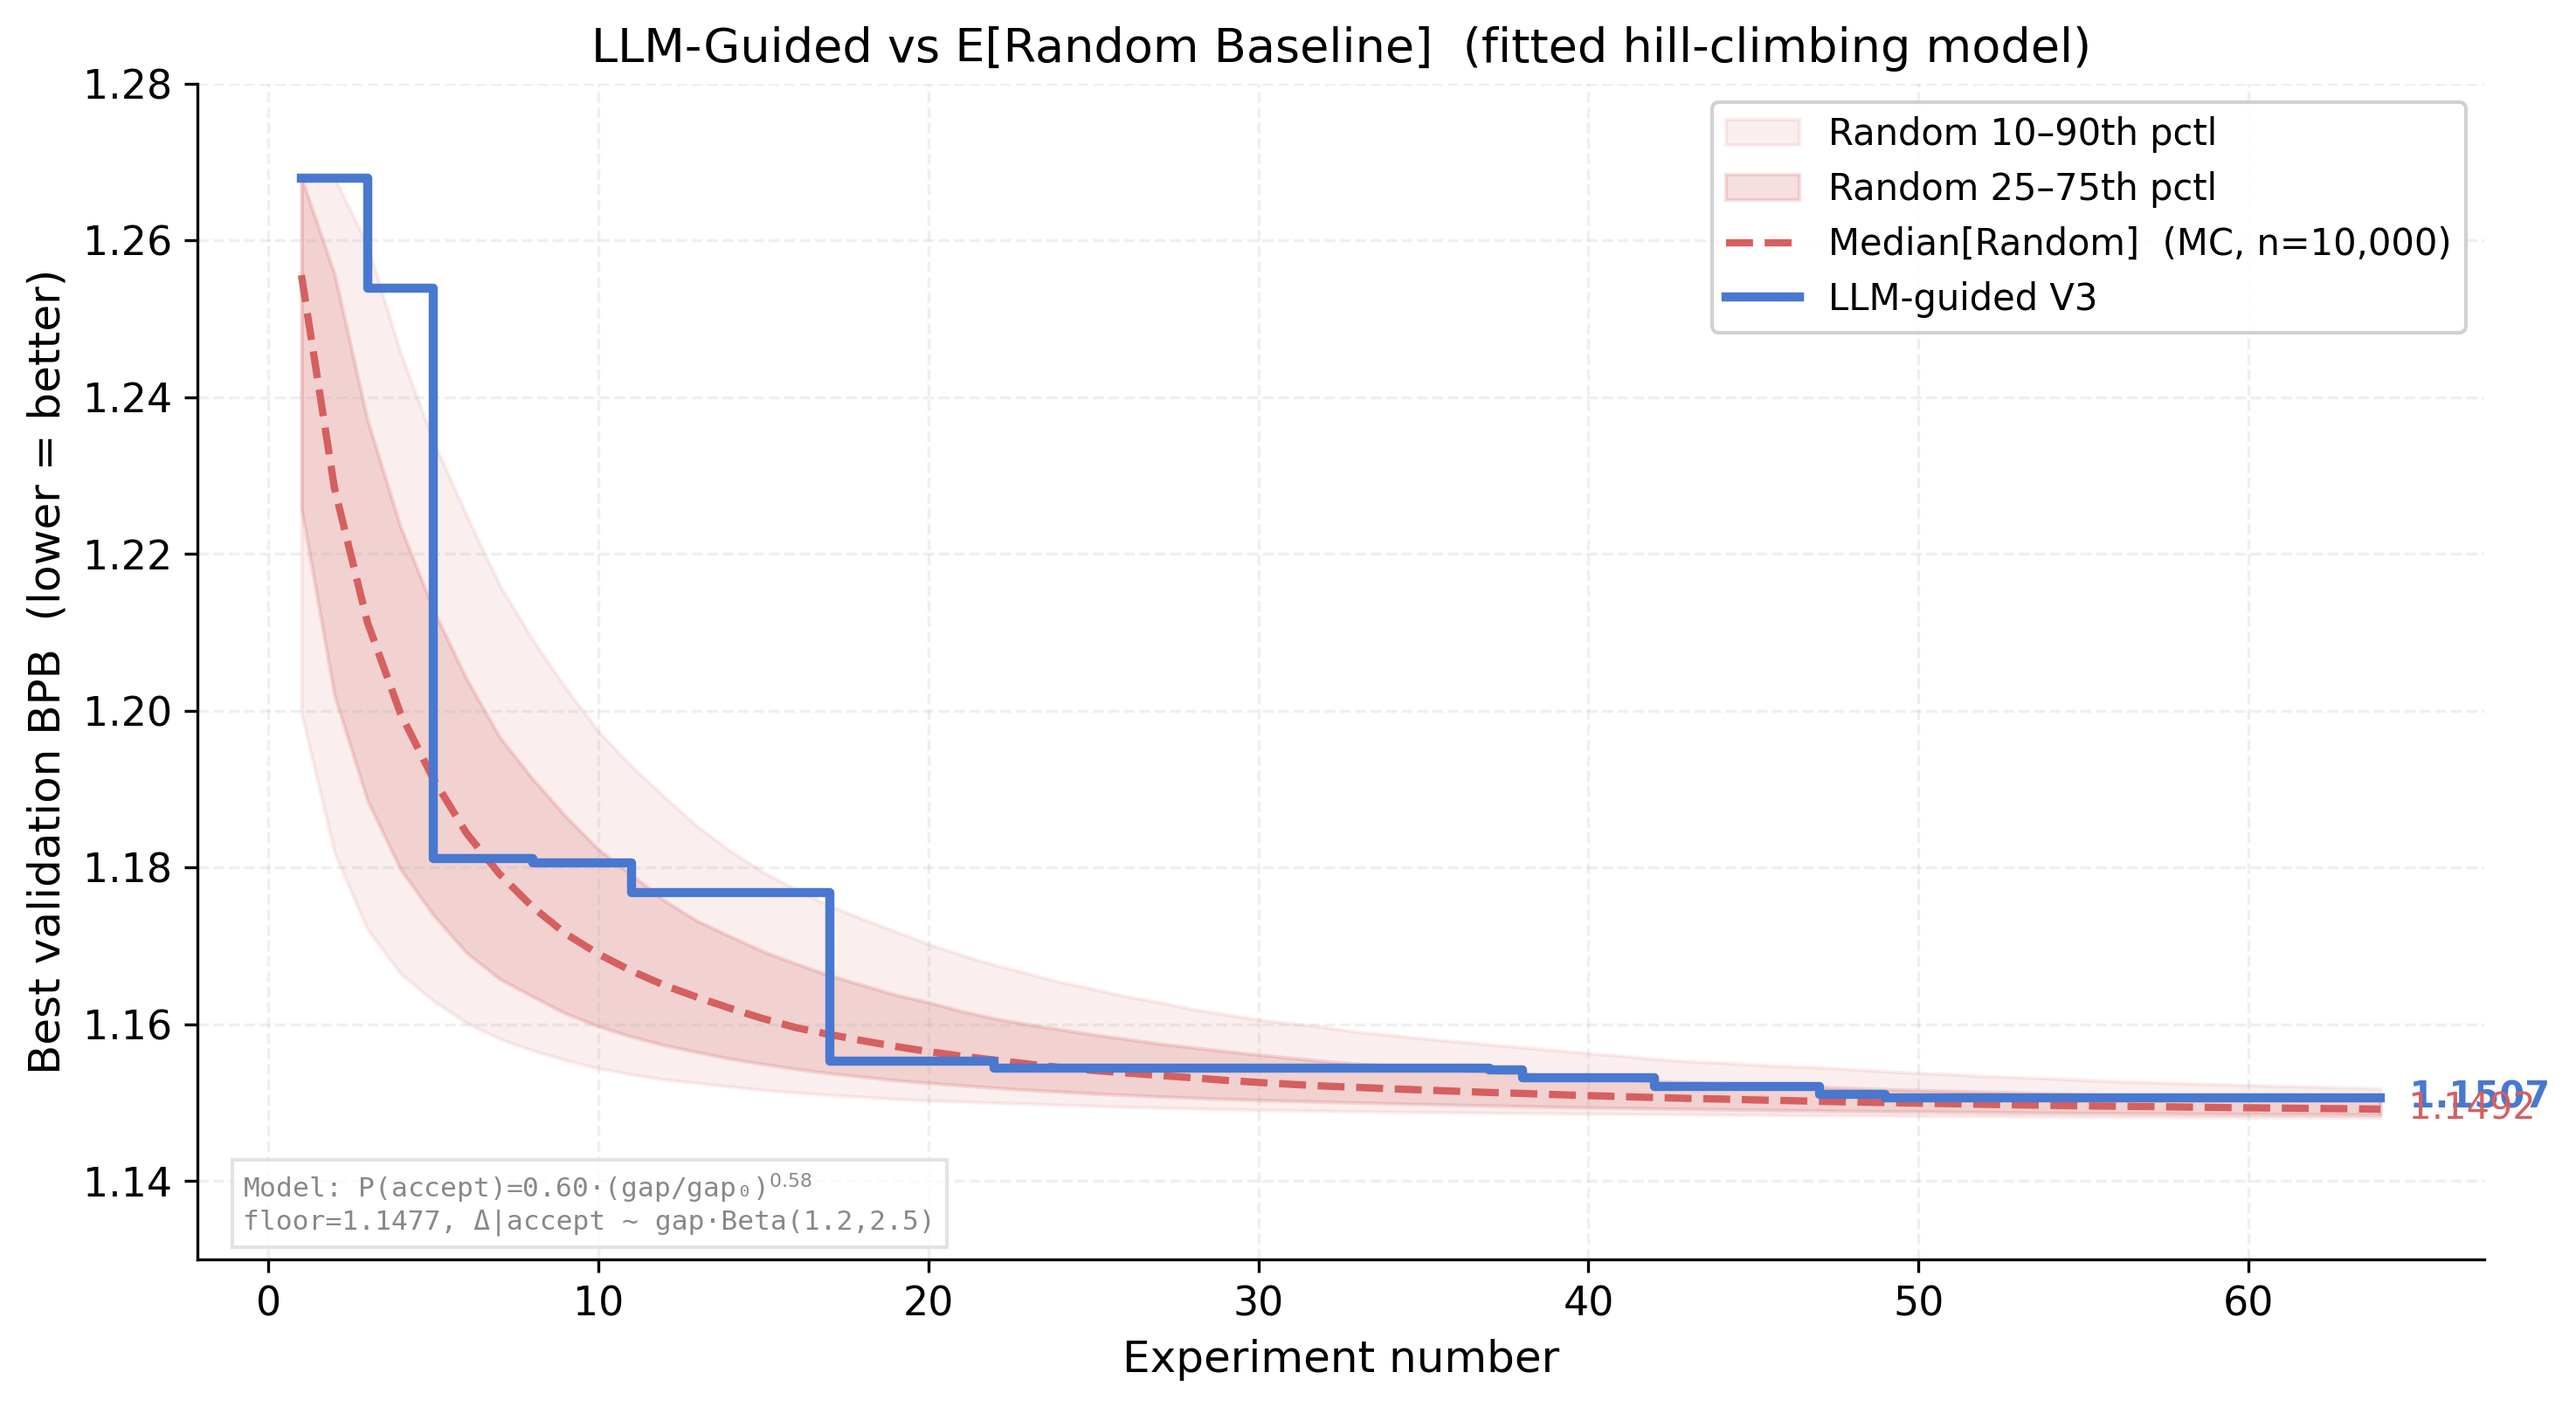
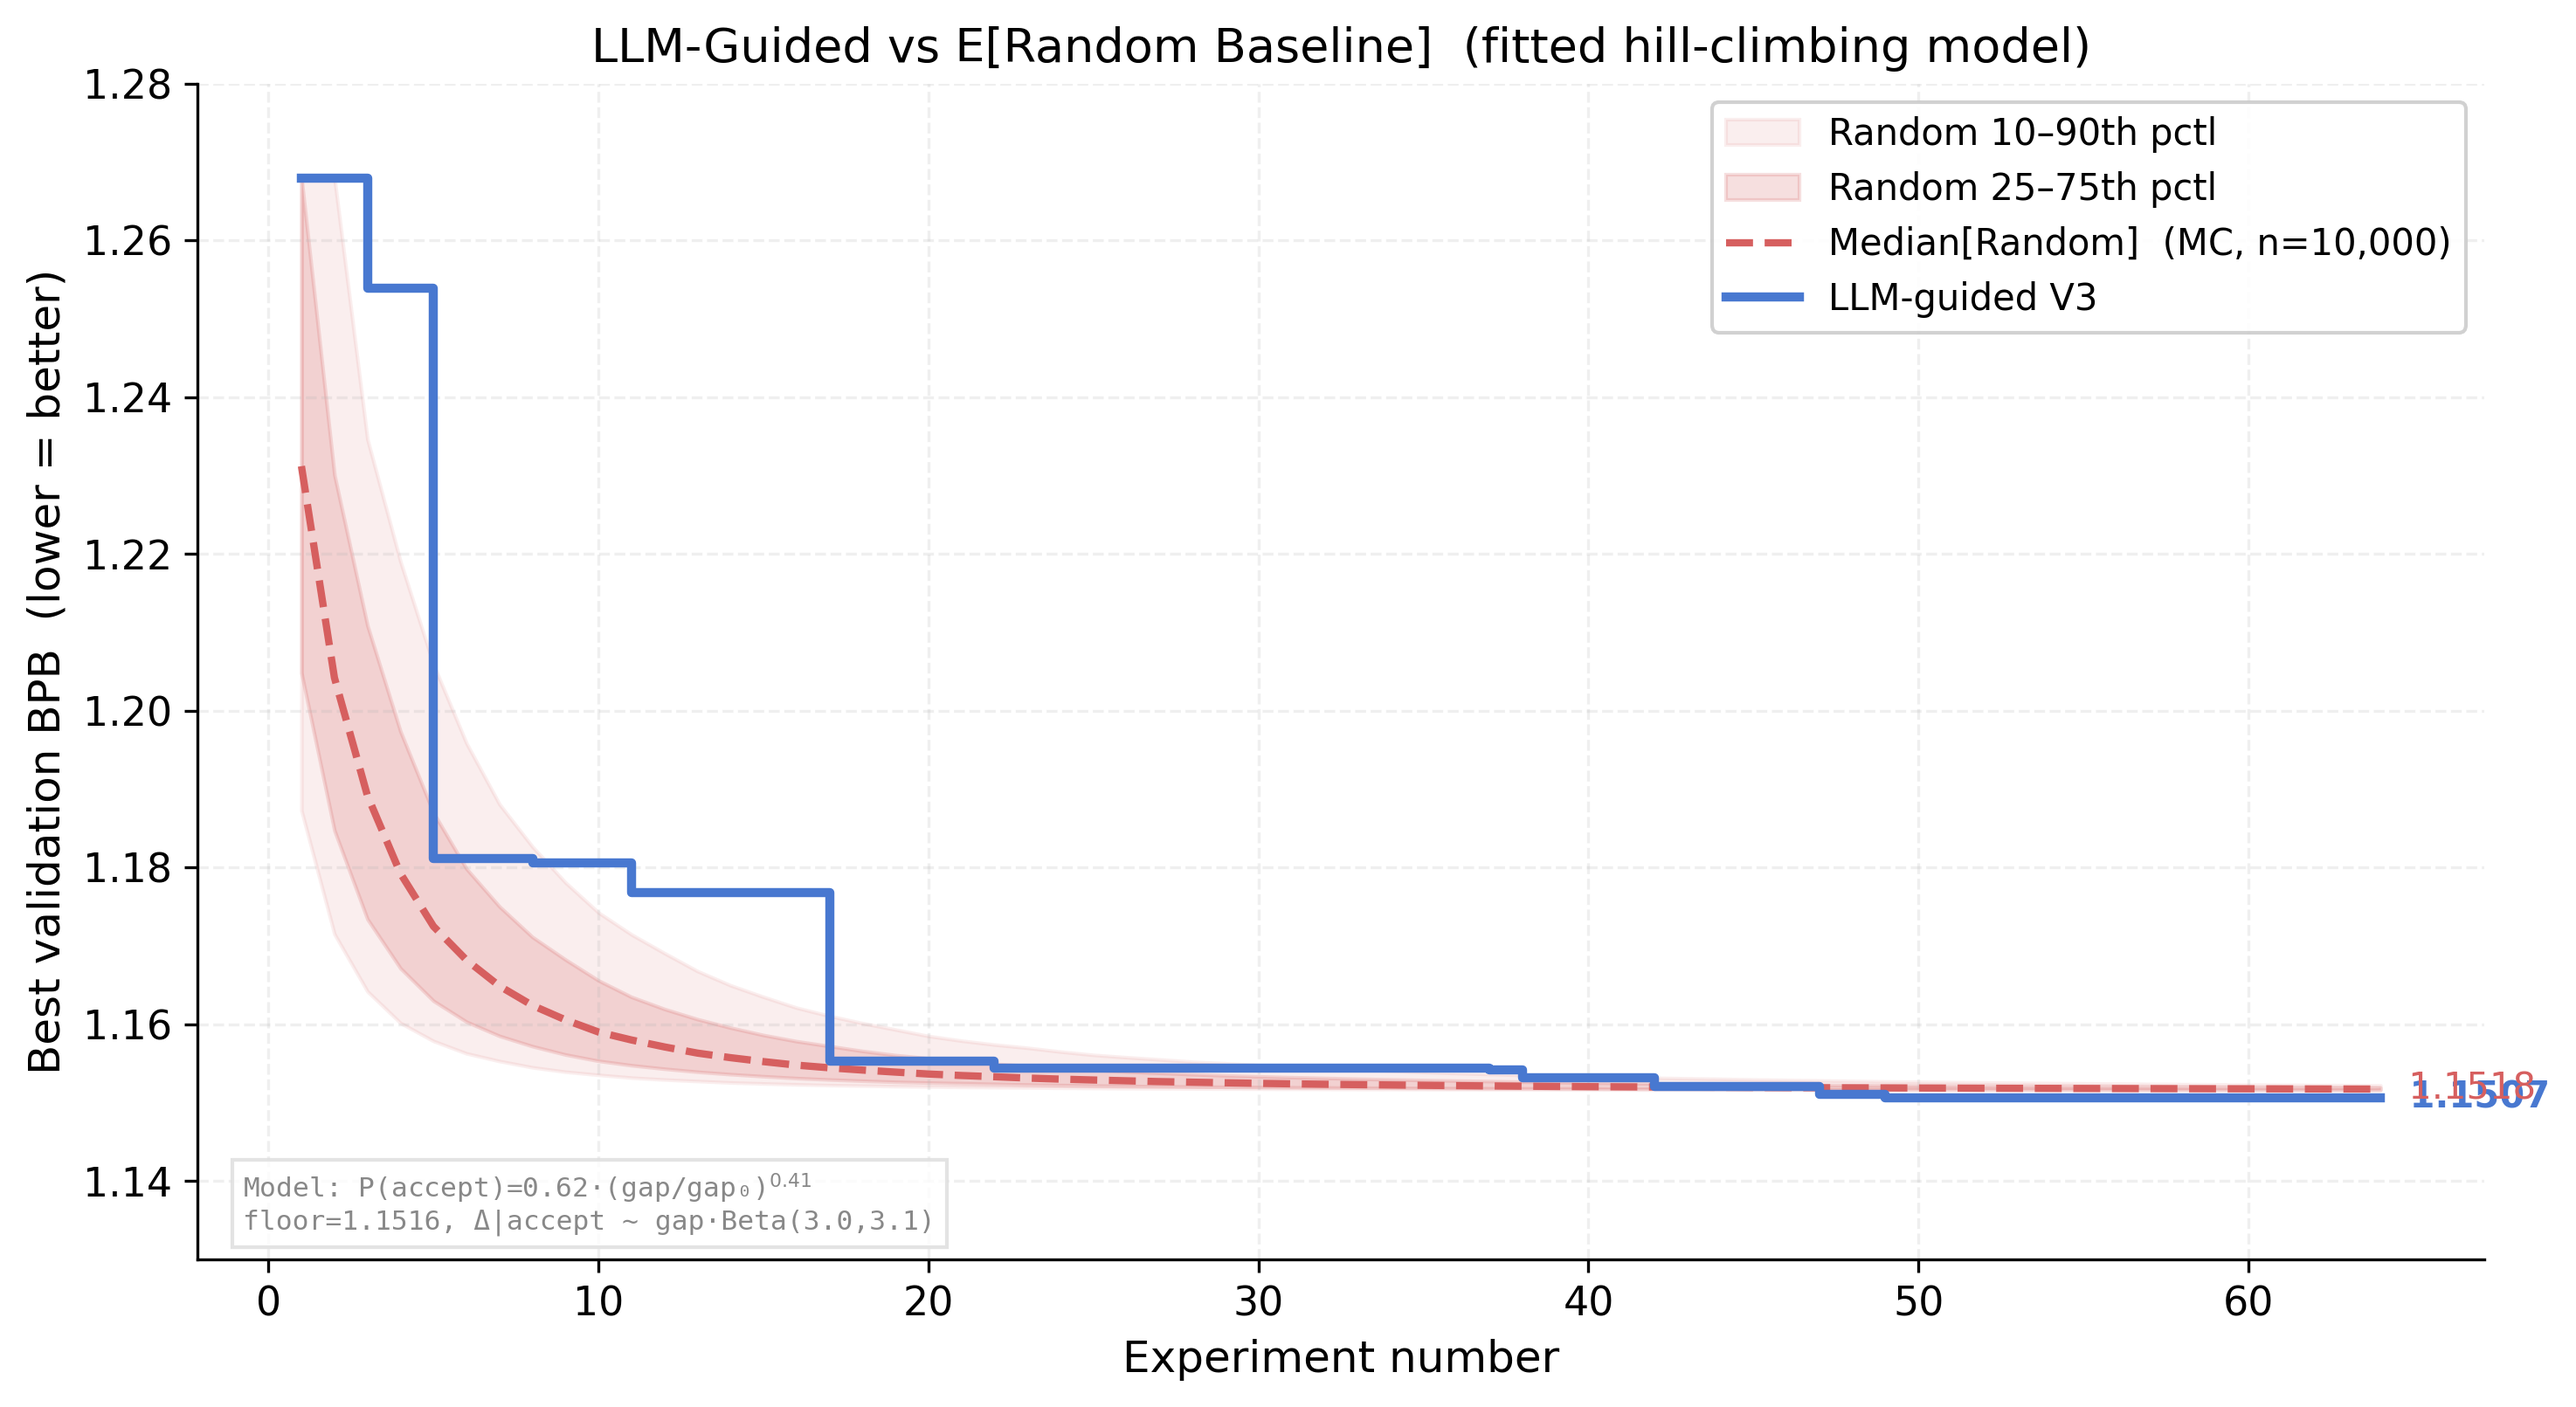
fig5: set BPB floor from baseline stall pattern (15 consecutive failures at 1.152)

Changed region(s): [[0.0936, 0.1552, 0.9983, 0.807]]

diff --git a/make_figures.py b/make_figures.py
@@ -489,9 +489,12 @@ def fig5_vs_expected():
     # of the observed acceptance pattern under the power-law model.
     # We grid-search BPB_floor, then fit alpha/beta by binned regression.
     best_final = min(r["bpb"] for r in base if r["status"] == "keep")
-    best_enh_final = min(r["bpb"] for r in enh if r["status"] == "keep")
-    # Floor must be below both final bests
-    BPB_FLOOR = min(best_final, best_enh_final) - 0.003  # ~1.1477
+    # Floor estimated from where baseline stalled: 15 consecutive failures
+    # after 1.1521, suggesting the effective random search floor is ~1.152.
+    # We set floor slightly below baseline best to allow the model some
+    # residual improvement probability, but above V3's best (1.1507) to
+    # reflect that random single-HP perturbation cannot reach V3's level.
+    BPB_FLOOR = best_final - 0.0005  # ~1.1516
 
     gap_0 = START_BPB - BPB_FLOOR
 
